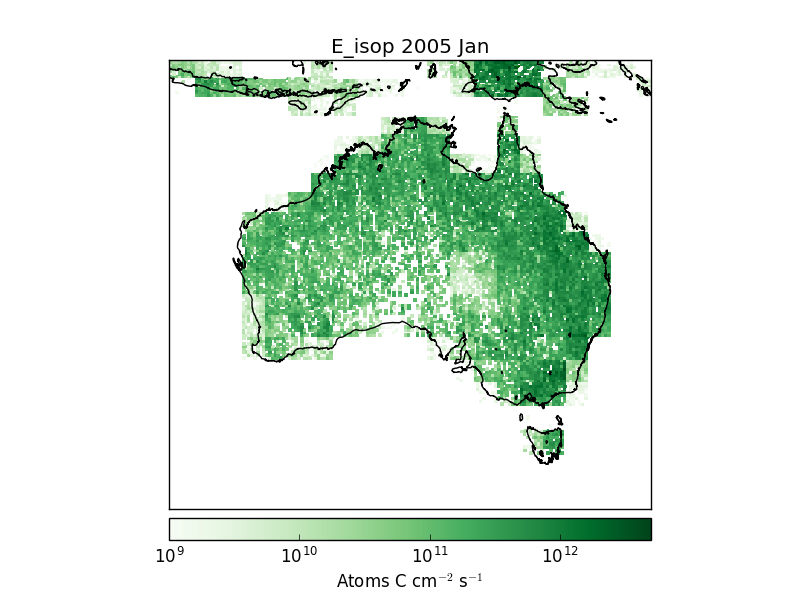
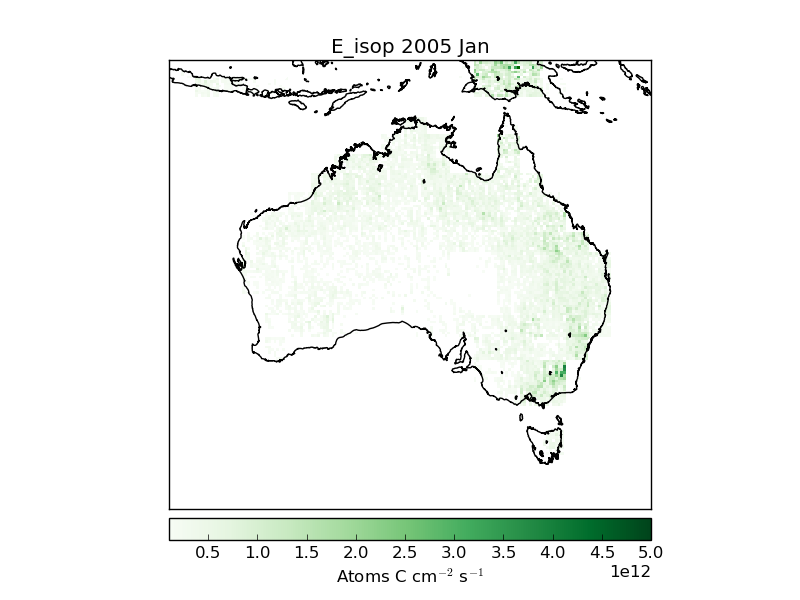
Updated plot limits and linearity

diff --git a/Inversion.py b/Inversion.py
@@ -278,9 +278,9 @@ def plot_E_omi(month=datetime(2005,1,1)):
     #          cmap=None):
     pname='Figs/GC/E_omi_%s.png'%dstr
     title='E_isop %s'%dstr2
-    pp.createmap(E,lats,lons, vmin=1e9, vmax=5e12, title=title,
+    pp.createmap(E,lats,lons, vmin=1e11, vmax=5e12, title=title,
                  clabel=r'Atoms C cm$^{-2}$ s$^{-1}$',cmap='Greens',
-                 right='darkgreen',
+                 right='darkgreen', linear=True,
                  aus=True,
                  pname=pname)
 
